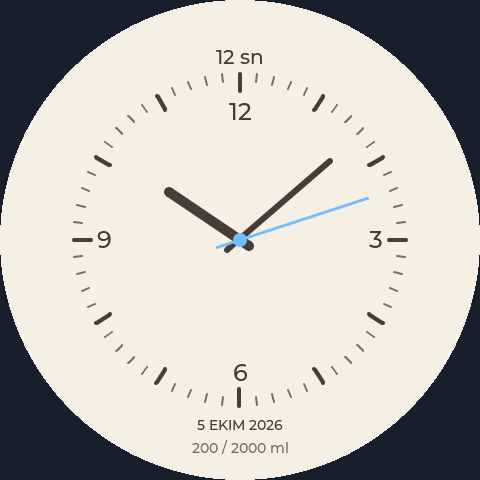
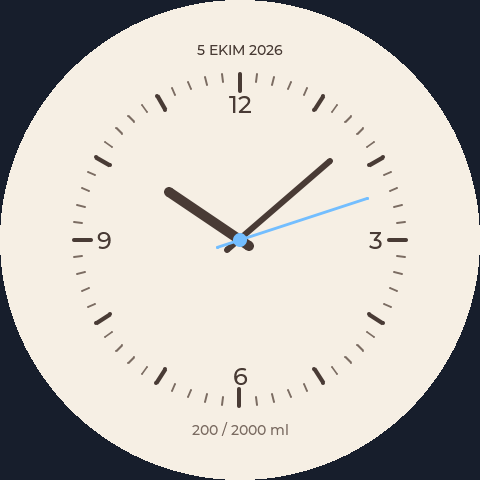
fix(ui): center analog dial and remove redundant digital seconds

diff --git a/App/watch_faces.c b/App/watch_faces.c
@@ -10,10 +10,11 @@ static void set_label(lv_obj_t *label, const char *value);
 static const lv_style_prop_t no_transition_properties[] = {0};
 static const lv_style_transition_dsc_t no_transition = {.props = no_transition_properties};
 enum { PASTEL, NEON, CLASSIC, ORBIT, FACE_COUNT };
+enum { DIAL_CENTER = 240, DIAL_RADIUS = 166, NUMERAL_RADIUS = 136, INFO_OFFSET = 190 };
 _Static_assert(FACE_COUNT==WATCH_FACE_COUNT,"Face count must match persistent model validation");
 static lv_obj_t *face_roots[FACE_COUNT], *face_clock[FACE_COUNT], *face_date[FACE_COUNT];
 static lv_obj_t *face_water[FACE_COUNT], *face_battery[FACE_COUNT], *face_alarm[FACE_COUNT];
-static lv_obj_t *pastel_card, *pastel_progress, *neon_ring, *orbit_ring, *seconds_label, *classic_seconds, *orbit_seconds, *period_labels[FACE_COUNT];
+static lv_obj_t *pastel_card, *pastel_progress, *neon_ring, *orbit_ring, *seconds_label, *orbit_seconds, *period_labels[FACE_COUNT];
 static lv_obj_t *hour_hand, *minute_hand, *second_hand, *center_pin;
 static lv_point_precise_t hand_points[3][2], tick_points[60][2], mini_hand_points[3][2];
 static lv_obj_t *picker_screen, *style_buttons[FACE_COUNT], *apply_button;
@@ -106,7 +107,6 @@ static void colors_apply(void)
     lv_obj_set_style_line_color(minute_hand,lv_color_hex(ink),0);
     lv_obj_set_style_line_color(second_hand,lv_color_hex(0x73BEFF),0);
     lv_obj_set_style_bg_color(center_pin,lv_color_hex(0x73BEFF),0);
-    lv_obj_set_style_text_color(classic_seconds,lv_color_hex(ink),0);
     lv_obj_set_style_text_color(face_date[CLASSIC],lv_color_hex(ink),0);
     lv_obj_set_style_text_color(face_water[CLASSIC],lv_color_hex(muted),0);
     lv_obj_set_style_text_color(face_battery[CLASSIC],lv_color_hex(muted),0);
@@ -172,7 +172,7 @@ void watch_faces_set_datetime(uint16_t year, uint8_t month, uint8_t day,
             set_label(period_labels[i], "");
         }
         set_label(seconds_label, "--");
-        set_label(classic_seconds,"-- sn"); set_label(orbit_seconds,"-- sn");
+        set_label(orbit_seconds,"-- sn");
         for(unsigned i = 0; i < FACE_COUNT; ++i) set_label(face_date[i], "SAATI AYARLAYIN");
         return;
     }
@@ -183,14 +183,14 @@ void watch_faces_set_datetime(uint16_t year, uint8_t month, uint8_t day,
         set_label(period_labels[i], twelve_hour ? (hour < 12 ? "AM" : "PM") : "");
     }
     snprintf(value, sizeof value, "%02u", second); set_label(seconds_label, value);
-    snprintf(value,sizeof value,"%02u sn",second); set_label(classic_seconds,value); set_label(orbit_seconds,value);
+    snprintf(value,sizeof value,"%02u sn",second); set_label(orbit_seconds,value);
     lv_arc_set_value(orbit_ring,second);
     snprintf(value, sizeof value, "%u %s %u", day, months[month - 1], year);
     for(unsigned i = 0; i < FACE_COUNT; ++i) set_label(face_date[i], value);
     if(watch_data.face_style == CLASSIC && lv_screen_active() != picker_screen) {
-        update_hand(hour_hand, hand_points[0], (hour % 12) * 30 + minute * .5f, 240, 240, 85, 12);
-        update_hand(minute_hand, hand_points[1], minute * 6 + second * .1f, 240, 240, 120, 16);
-        update_hand(second_hand, hand_points[2], second * 6, 240, 240, 134, 24);
+        update_hand(hour_hand, hand_points[0], (hour % 12) * 30 + minute * .5f, DIAL_CENTER, DIAL_CENTER, 85, 12);
+        update_hand(minute_hand, hand_points[1], minute * 6 + second * .1f, DIAL_CENTER, DIAL_CENTER, 120, 16);
+        update_hand(second_hand, hand_points[2], second * 6, DIAL_CENTER, DIAL_CENTER, 134, 24);
     }
     if(lv_screen_active() == picker_screen) {
         update_hand(mini_hands[0], mini_hand_points[0], (hour % 12) * 30 + minute * .5f, 50, 50, 21, 0);
@@ -289,24 +289,28 @@ void watch_faces_init(lv_obj_t *home, lv_obj_t *picker, lv_event_cb_t navigate, 
     for(unsigned i = 0; i < 60; ++i) {
         float angle = i * .10471975512f;
         float inner = i % 5 ? 158 : 149;
-        tick_points[i][0] = (lv_point_precise_t){240 + inner * sinf(angle), 240 - inner * cosf(angle)};
-        tick_points[i][1] = (lv_point_precise_t){240 + 166 * sinf(angle), 240 - 166 * cosf(angle)};
+        tick_points[i][0] = (lv_point_precise_t){DIAL_CENTER + inner * sinf(angle), DIAL_CENTER - inner * cosf(angle)};
+        tick_points[i][1] = (lv_point_precise_t){DIAL_CENTER + DIAL_RADIUS * sinf(angle), DIAL_CENTER - DIAL_RADIUS * cosf(angle)};
         classic_ticks[i]=line(root, tick_points[i], i % 5 ? 2 : 4, i % 5 ? 0xA8B9D2 : 0xF0F4FC);
     }
-    classic_numbers[0]=text(root, "12", 98, &lv_font_montserrat_24, 0xF0F4FC);
-    lv_obj_t *number = text(root, "3", 226, &lv_font_montserrat_24, 0x493B35); lv_obj_align(number, LV_ALIGN_TOP_MID, 136, 226);
-    classic_numbers[1]=number;
-    number = text(root, "9", 226, &lv_font_montserrat_24, 0xF0F4FC); lv_obj_align(number, LV_ALIGN_TOP_MID, -136, 226);
-    classic_numbers[2]=number;
-    classic_numbers[3]=text(root, "6", 359, &lv_font_montserrat_24, 0xF0F4FC);
-    classic_seconds=text(root,"00 sn",46,&lv_font_montserrat_20,0xF0F4FC);
-    face_date[CLASSIC] = text(root, "", 417, &lv_font_montserrat_14, 0xF0F4FC);
-    face_water[CLASSIC] = text(root, "", 440, &lv_font_montserrat_14, 0xA8B9D2);
+    /* Center the actual label boxes so font metrics cannot shift the dial. */
+    const char *numerals[] = {"12", "3", "9", "6"};
+    const int numeral_x[] = {0, NUMERAL_RADIUS, -NUMERAL_RADIUS, 0};
+    const int numeral_y[] = {-NUMERAL_RADIUS, 0, 0, NUMERAL_RADIUS};
+    for(unsigned i=0;i<4;++i) {
+        classic_numbers[i]=text(root,numerals[i],0,&lv_font_montserrat_24,0xF0F4FC);
+        lv_obj_align(classic_numbers[i],LV_ALIGN_CENTER,numeral_x[i],numeral_y[i]);
+    }
+    face_date[CLASSIC] = text(root, "", 0, &lv_font_montserrat_14, 0xF0F4FC);
+    lv_obj_align(face_date[CLASSIC],LV_ALIGN_CENTER,0,-INFO_OFFSET);
+    face_water[CLASSIC] = text(root, "", 0, &lv_font_montserrat_14, 0xA8B9D2);
+    lv_obj_align(face_water[CLASSIC],LV_ALIGN_CENTER,0,INFO_OFFSET);
     face_battery[CLASSIC] = text(root, "Pil --", 22, &lv_font_montserrat_14, 0xA8B9D2);
     hour_hand = line(root, hand_points[0], 10, 0x493B35);
     minute_hand = line(root, hand_points[1], 6, 0x493B35);
     second_hand = line(root, hand_points[2], 3, 0x73BEFF);
-    center_pin = shape(root, 233, 233, 14, 14, LV_RADIUS_CIRCLE, 0x73BEFF);
+    center_pin = shape(root, 0, 0, 14, 14, LV_RADIUS_CIRCLE, 0x73BEFF);
+    lv_obj_center(center_pin);
 
     root=face_roots[ORBIT];
     orbit_ring=arc(root,408,36,6,0x293A51); lv_arc_set_range(orbit_ring,0,59);

diff --git a/output/verify-round-ui.py b/output/verify-round-ui.py
@@ -272,7 +272,27 @@ for i in [0,1,3]:
     check(abs(x+w/2-240)<=1 and abs(y+h/2-240)<=1,'Digital face %d clock is centered'%i)
 check((call('lv_obj_get_style_prop',pointer('face_roots',2),0,28)&0xffffff)==0x0c1422,'Classic face is dark in dark theme')
 check((call('lv_obj_get_style_prop',pointer('classic_numbers',0),0,88)&0xffffff)==0xf0f4fc,'Classic hour numerals are white in dark theme')
-check(text('classic_seconds')=='12 sn','Analog face has a numeric seconds indicator')
+classic=pointer('face_roots',2)
+check('classic_seconds' not in symbols and call('lv_obj_get_child_count',classic)==71,
+      'Analog face omits the redundant digital seconds label')
+check(not call('lv_obj_has_flag',pointer('second_hand'),1),
+      'Analog seconds hand remains visible with valid RTC')
+def object_center(obj):
+    return (call('lv_obj_get_x',obj)+call('lv_obj_get_width',obj)/2,
+            call('lv_obj_get_y',obj)+call('lv_obj_get_height',obj)/2)
+check(object_center(pointer('center_pin'))==(240,240),'Analog hands pivot exactly at the screen center')
+expected_centers=[(240,104),(376,240),(104,240),(240,376)]
+check(all(all(abs(a-b)<=1 for a,b in zip(object_center(pointer('classic_numbers',i)),expected_centers[i])) for i in range(4)),
+      'Analog numerals sit symmetrically around the screen center')
+top=object_center(pointer('face_date',2)); bottom=object_center(pointer('face_water',2))
+check(abs(top[0]-240)<=1 and abs(bottom[0]-240)<=1 and abs(top[1]+bottom[1]-480)<=1,
+      'Analog date and water information balance above and below the dial')
+before_hand=bytes(u.mem_read(symbols['hand_points']+32,16))
+u.mem_write(symbols['watch_data']+914,b'\x02'); call('watch_faces_apply_saved'); load(0)
+call('watch_ui_set_datetime',2026,10,5,10,8,15)
+check(bytes(u.mem_read(symbols['hand_points']+32,16))!=before_hand,
+      'Analog seconds hand continues moving after digital seconds removal')
+call('watch_ui_set_datetime',2026,10,5,10,8,12)
 neon_alarm=pointer('face_alarm',1)
 x=call('lv_obj_get_x',neon_alarm);y=call('lv_obj_get_y',neon_alarm)
 w=call('lv_obj_get_width',neon_alarm);h=call('lv_obj_get_height',neon_alarm)
